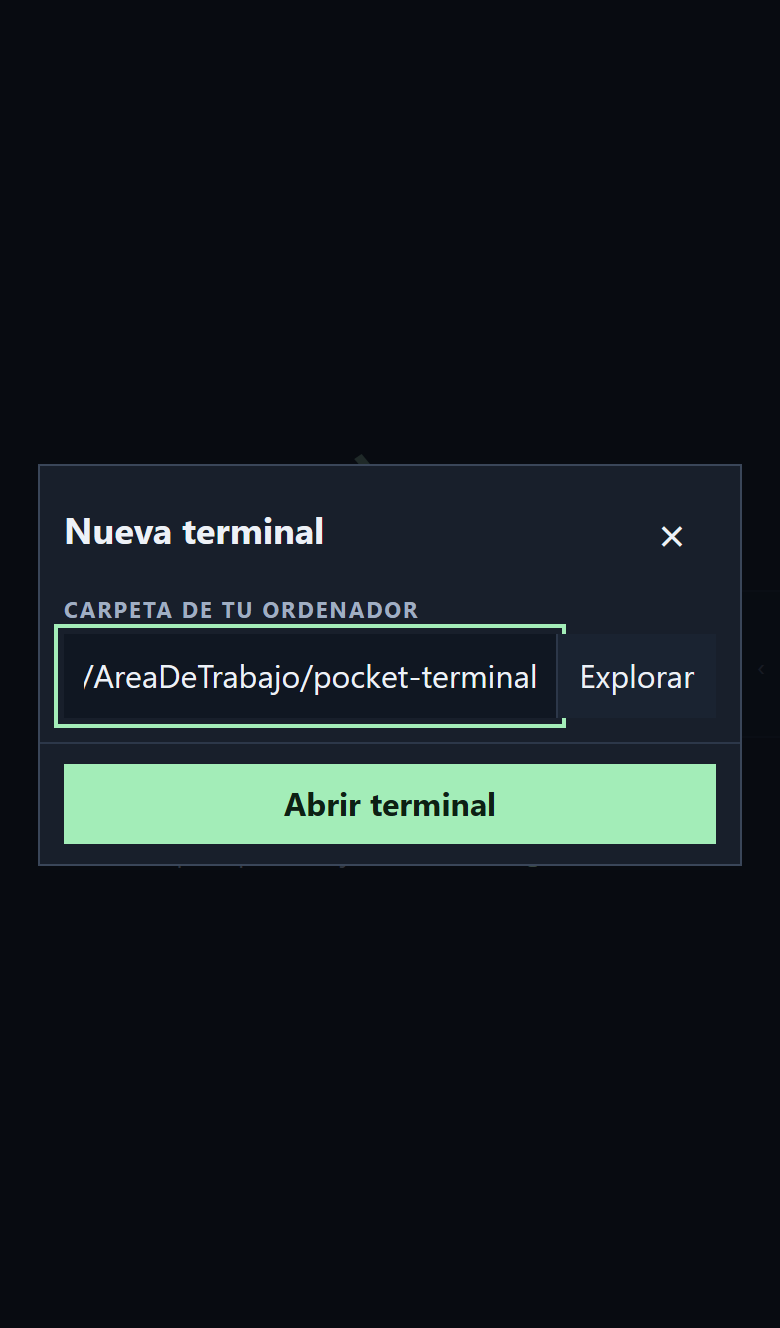
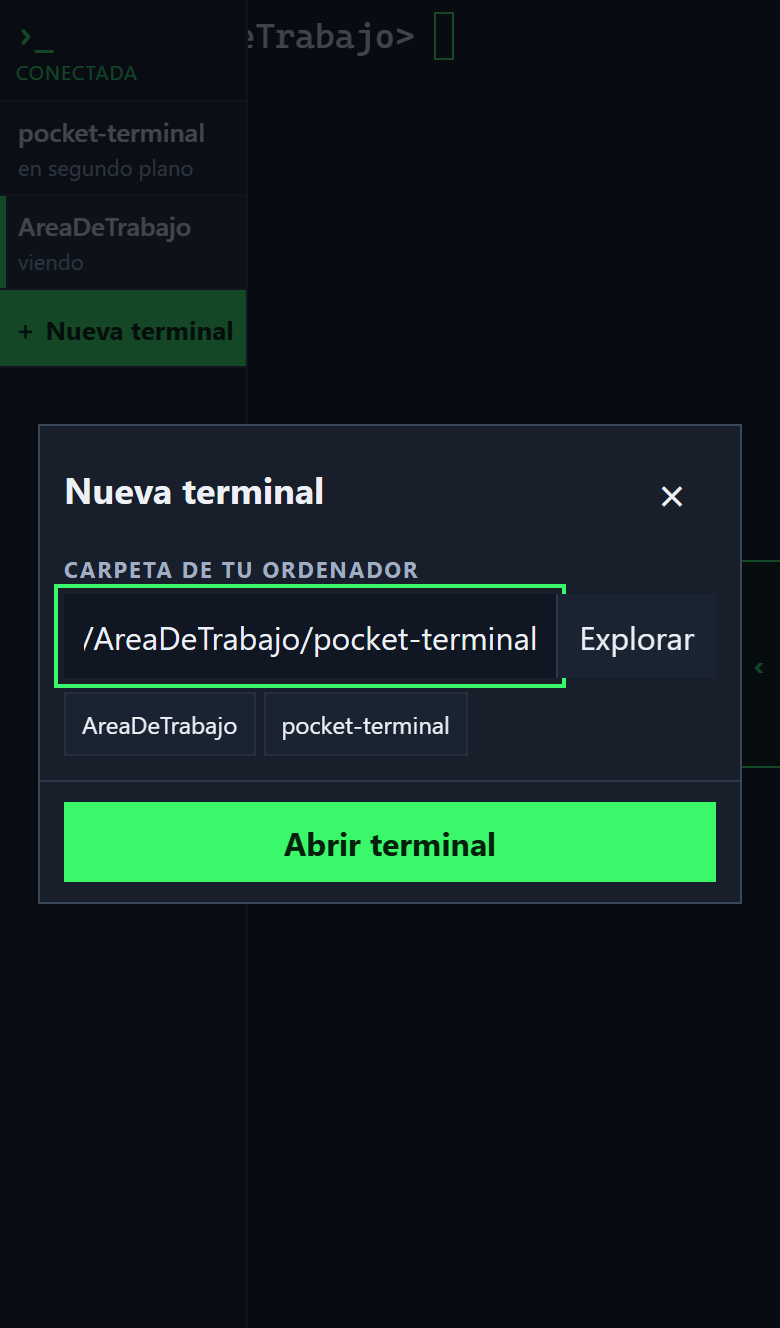
style: swap the mint accent for terminal phosphor green
The accent was a pastel mint that read as a web app. It is now phosphor
green, which is what a terminal looks like. Every colour derived from it
moved with it: the pressed state, the code text, the icon frame, the empty
mark, the tab background, the text selection, and the green and cursor of
the terminal theme itself.

Also restores the full-width rule for the Ajustes button, which lost it
when the panel was rearranged and left a hole beside it.

All the README screenshots regenerated with the new colour.

diff --git a/web/style.css b/web/style.css
@@ -1,8 +1,8 @@
 @import '@xterm/xterm/css/xterm.css';
 
-:root{color-scheme:dark;font-family:Inter,ui-sans-serif,system-ui,-apple-system,BlinkMacSystemFont,"Segoe UI",sans-serif;color:#edf1f7;background:#10141c;font-synthesis:none;--panel:#181f2b;--muted:#a0aec3;--accent:#a3edb8;--border:#2c3749;--app-height:100dvh;--app-top:0px;--tools-width:124px}
-*{box-sizing:border-box}body{margin:0;overflow:hidden}button,input,select,textarea{font:inherit}button{cursor:pointer;color:inherit;background:#1a2331;border:1px solid #33405464;border-radius:0;min-height:40px;padding:7px 11px;touch-action:manipulation}button:hover{background:#2c3a4d}button:active{transform:translateY(1px)}button:disabled{opacity:.45;cursor:default}button:focus-visible,input:focus-visible,select:focus-visible,textarea:focus-visible{outline:2px solid var(--accent);outline-offset:3px}button[aria-pressed=true]{color:#101a13;background:var(--accent);border-color:var(--accent)}input:not([type=range]),textarea{width:100%;background:#101722;border:1px solid #33405480;border-radius:0;color:#edf1f7;font-size:16px;padding:9px 10px;min-height:42px}input[type=range]{width:100%;accent-color:var(--accent);height:40px}textarea{resize:vertical}label{display:block;margin:12px 0 5px;font-size:11px;font-weight:700;letter-spacing:.09em;text-transform:uppercase;color:var(--muted)}h1{font-size:24px;line-height:1.25;margin:10px 0;font-weight:650}h2{font-size:18px;margin:0 0 10px;font-weight:650}p{font-size:15px;line-height:1.45}.muted{color:var(--muted)}.footnote{font-size:13px;color:var(--muted);line-height:1.5}.error{color:#ffb3b3;font-size:13px;margin:7px 0 0}.error:empty{display:none}.primary{color:#0c2113;background:var(--accent);border-color:var(--accent);font-weight:700}.primary:hover{background:#baf6ca}.danger{color:#ffb4b9}code{font-family:ui-monospace,SFMono-Regular,Consolas,monospace;color:#c5f4d2}.sr-only{position:absolute;width:1px;height:1px;overflow:hidden;clip:rect(0,0,0,0);white-space:nowrap}[hidden]{display:none!important}
-#app{position:fixed;inset-inline:0;top:var(--app-top);height:var(--app-height);padding-top:env(safe-area-inset-top);display:flex;flex-direction:column}.gate{height:100%;display:grid;place-items:center;padding:16px;overflow:auto}.login-card{width:min(100%,360px);margin:auto}.login-brand{display:flex;align-items:center;gap:10px;padding-bottom:12px;border-bottom:1px solid var(--border)}.login-brand h1{font-size:19px;margin:0;font-weight:650;letter-spacing:.01em}.brand-icon{font:600 18px ui-monospace,monospace;color:var(--accent);width:34px;height:34px;border:1px solid #41654e;border-radius:0;display:grid;place-items:center;background:#192b22;flex:0 0 auto}.login-card>.primary{width:100%}.login-card>.footnote{text-align:center;margin-top:10px}
+:root{color-scheme:dark;font-family:Inter,ui-sans-serif,system-ui,-apple-system,BlinkMacSystemFont,"Segoe UI",sans-serif;color:#edf1f7;background:#10141c;font-synthesis:none;--panel:#181f2b;--muted:#a0aec3;--accent:#3bf76a;--border:#2c3749;--app-height:100dvh;--app-top:0px;--tools-width:124px}
+*{box-sizing:border-box}body{margin:0;overflow:hidden}button,input,select,textarea{font:inherit}button{cursor:pointer;color:inherit;background:#1a2331;border:1px solid #33405464;border-radius:0;min-height:40px;padding:7px 11px;touch-action:manipulation}button:hover{background:#2c3a4d}button:active{transform:translateY(1px)}button:disabled{opacity:.45;cursor:default}button:focus-visible,input:focus-visible,select:focus-visible,textarea:focus-visible{outline:2px solid var(--accent);outline-offset:3px}button[aria-pressed=true]{color:#04200c;background:var(--accent);border-color:var(--accent)}input:not([type=range]),textarea{width:100%;background:#101722;border:1px solid #33405480;border-radius:0;color:#edf1f7;font-size:16px;padding:9px 10px;min-height:42px}input[type=range]{width:100%;accent-color:var(--accent);height:40px}textarea{resize:vertical}label{display:block;margin:12px 0 5px;font-size:11px;font-weight:700;letter-spacing:.09em;text-transform:uppercase;color:var(--muted)}h1{font-size:24px;line-height:1.25;margin:10px 0;font-weight:650}h2{font-size:18px;margin:0 0 10px;font-weight:650}p{font-size:15px;line-height:1.45}.muted{color:var(--muted)}.footnote{font-size:13px;color:var(--muted);line-height:1.5}.error{color:#ffb3b3;font-size:13px;margin:7px 0 0}.error:empty{display:none}.primary{color:#04200c;background:var(--accent);border-color:var(--accent);font-weight:700}.primary:hover{background:#6dfa96}.danger{color:#ffb4b9}code{font-family:ui-monospace,SFMono-Regular,Consolas,monospace;color:#7cf79b}.sr-only{position:absolute;width:1px;height:1px;overflow:hidden;clip:rect(0,0,0,0);white-space:nowrap}[hidden]{display:none!important}
+#app{position:fixed;inset-inline:0;top:var(--app-top);height:var(--app-height);padding-top:env(safe-area-inset-top);display:flex;flex-direction:column}.gate{height:100%;display:grid;place-items:center;padding:16px;overflow:auto}.login-card{width:min(100%,360px);margin:auto}.login-brand{display:flex;align-items:center;gap:10px;padding-bottom:12px;border-bottom:1px solid var(--border)}.login-brand h1{font-size:19px;margin:0;font-weight:650;letter-spacing:.01em}.brand-icon{font:600 18px ui-monospace,monospace;color:var(--accent);width:34px;height:34px;border:1px solid #2f6b40;border-radius:0;display:grid;place-items:center;background:#0d2313;flex:0 0 auto}.login-card>.primary{width:100%}.login-card>.footnote{text-align:center;margin-top:10px}
 #workspace{position:relative;height:100%;min-height:0}
 #terminal-area{position:absolute;inset:0;z-index:1;overflow:hidden;background:#10141c}
 #terminal{position:absolute;inset:6px max(6px,env(safe-area-inset-right)) 4px max(8px,env(safe-area-inset-left));min-width:0;background:#10141c}
@@ -24,11 +24,11 @@
    forma de dar con los paneles. */
 /* Presencia por color, no por tamaño: se ven de lejos y el texto de debajo
    sigue leyéndose, que en 36 columnas cada carácter cuenta. */
-#tools-tab,#sessions-tab{position:absolute;z-index:30;top:50%;transform:translateY(-50%);width:22px;min-height:104px;padding:0;border-radius:0;border:1px solid var(--accent);background:#151f1acc;color:var(--accent);font-size:15px;font-weight:700;opacity:1;transition:background .15s,color .15s}
+#tools-tab,#sessions-tab{position:absolute;z-index:30;top:50%;transform:translateY(-50%);width:22px;min-height:104px;padding:0;border-radius:0;border:1px solid var(--accent);background:#0c1e12dd;color:var(--accent);font-size:15px;font-weight:700;opacity:1;transition:background .15s,color .15s}
 #tools-tab{right:0;border-right:0}
 #sessions-tab{left:0;border-left:0}
-#tools-tab[aria-expanded=true]{right:var(--tools-width);background:var(--accent);border-color:var(--accent);color:#0c2113}
-#sessions-tab[aria-expanded=true]{left:var(--tools-width);background:var(--accent);border-color:var(--accent);color:#0c2113}
+#tools-tab[aria-expanded=true]{right:var(--tools-width);background:var(--accent);border-color:var(--accent);color:#04200c}
+#sessions-tab[aria-expanded=true]{left:var(--tools-width);background:var(--accent);border-color:var(--accent);color:#04200c}
 #tools,#sessions{position:absolute;z-index:29;top:0;bottom:0;width:var(--tools-width);padding:0 0 env(safe-area-inset-bottom);background:#151b25;overflow-y:auto;overscroll-behavior:contain;display:flex;flex-direction:column}
 #tools{right:0;border-left:1px solid var(--border)}
 #sessions{left:0;border-right:1px solid var(--border)}
@@ -45,8 +45,9 @@
 .keys-row>.wide-key{grid-column:1 / -1}
 
 .actions-row>button{min-height:38px;font-size:12px;padding:4px 2px;line-height:1.2;overflow-wrap:anywhere}
+.actions-row>.wide-action{grid-column:1 / -1}
 #empty-state{height:100%;display:flex;align-items:center;justify-content:center;flex-direction:column;text-align:center;padding:24px;overflow:auto}#empty-state p{max-width:310px;color:var(--muted);margin:0 0 20px}#empty-state .footnote{margin-top:24px;font-size:13px}
-.empty-mark{font:600 45px ui-monospace,monospace;color:#668774}
+.empty-mark{font:600 45px ui-monospace,monospace;color:#3f7a52}
 dialog{color:inherit;background:#181f2b;border:1px solid #3a4659;border-radius:0;padding:12px;width:min(440px,calc(100% - 16px));max-height:calc(var(--app-height) - 24px);overflow-y:auto;margin:auto;}dialog::backdrop{background:#05080dbc;}.dialog-heading{display:flex;align-items:center;justify-content:space-between;gap:10px}.dialog-heading h2{margin:0}.dialog-heading button{border:0;background:transparent;font-size:24px;padding:0;min-width:44px}dialog .primary,.wide{width:100%;margin-top:8px}
 /* Botones apilados sin borde propio: el hueco de un pixel hace de linea. */
 .wide{border:0;background:#1a2331}
@@ -62,8 +63,8 @@ dialog{color:inherit;background:#181f2b;border:1px solid #3a4659;border-radius:0
 .dialog-footer{position:sticky;bottom:-12px;margin:12px -12px -12px;padding:10px 12px calc(10px + env(safe-area-inset-bottom));background:#181f2b;border-top:1px solid var(--border)}
 .dialog-footer>.primary{width:100%;margin:0}
 .run-row{grid-template-columns:1fr}
-.run-row>button{min-height:38px;font-size:13px;font-weight:700;padding:4px 2px;color:#0c2113;background:var(--accent)}
-.run-row>button:hover:not(:disabled){background:#baf6ca}
+.run-row>button{min-height:38px;font-size:13px;font-weight:700;padding:4px 2px;color:#04200c;background:var(--accent)}
+.run-row>button:hover:not(:disabled){background:#6dfa96}
 #to-bottom{position:absolute;z-index:13;right:max(4px,env(safe-area-inset-right));bottom:150px;min-height:34px;padding:6px 11px;font-size:12px;border-radius:0;background:#202a39ee;border-color:#42536d}
 .notice-action{display:block;margin-top:8px;min-height:36px;font-size:13px;padding:6px 12px}
 

diff --git a/web/main.js b/web/main.js
@@ -9,7 +9,7 @@ let fontSize = Math.max(12, Math.min(28, Number(readPref('pocket-font', 17)) || 
 const term = new Terminal({
   fontSize, lineHeight: 1.2, fontFamily: '"Cascadia Mono", "SFMono-Regular", Consolas, "Liberation Mono", monospace',
   cursorBlink: true, scrollback: 3000, scrollOnUserInput: true, allowProposedApi: false,
-  theme: { background: '#10141c', foreground: '#e4eaf3', cursor: '#a3edb8', selectionBackground: '#46654f99', black: '#192230', red: '#ff929c', green: '#a3edb8', yellow: '#f2d58c', blue: '#8dbdff', magenta: '#d7acff', cyan: '#84d9df', white: '#e4eaf3', brightBlack: '#8e9eb7' },
+  theme: { background: '#10141c', foreground: '#e4eaf3', cursor: '#3bf76a', selectionBackground: '#2f7a4799', black: '#192230', red: '#ff929c', green: '#3bf76a', yellow: '#f2d58c', blue: '#8dbdff', magenta: '#d7acff', cyan: '#84d9df', white: '#e4eaf3', brightBlack: '#8e9eb7' },
 });
 const fit = new FitAddon(); term.loadAddon(fit);
 let opened = false, socket = null, selected = null, state = null;
